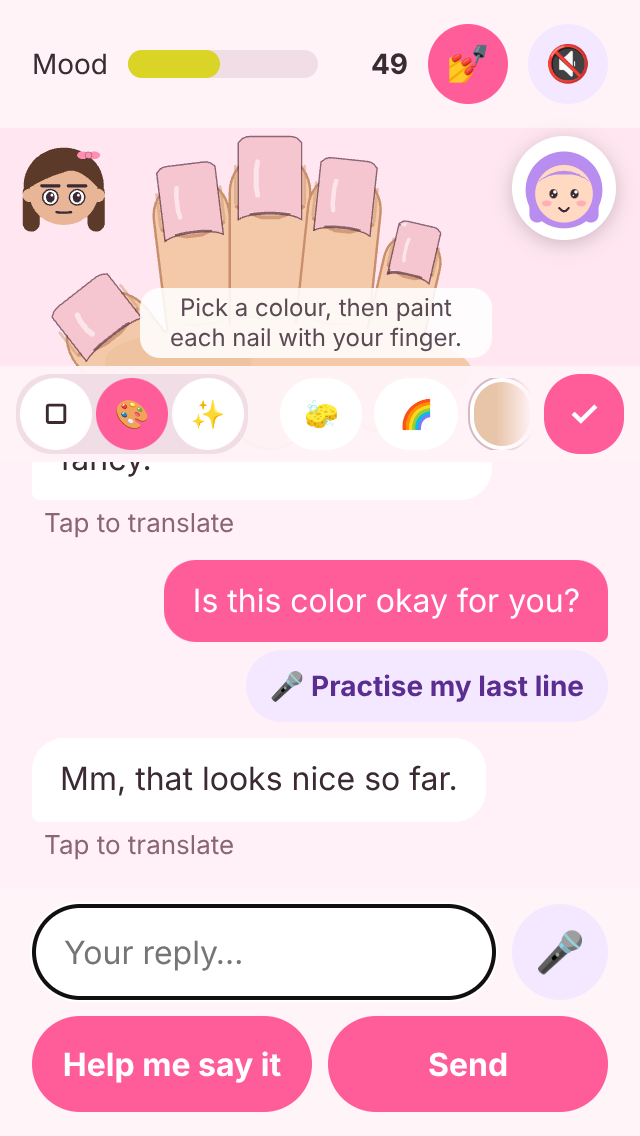
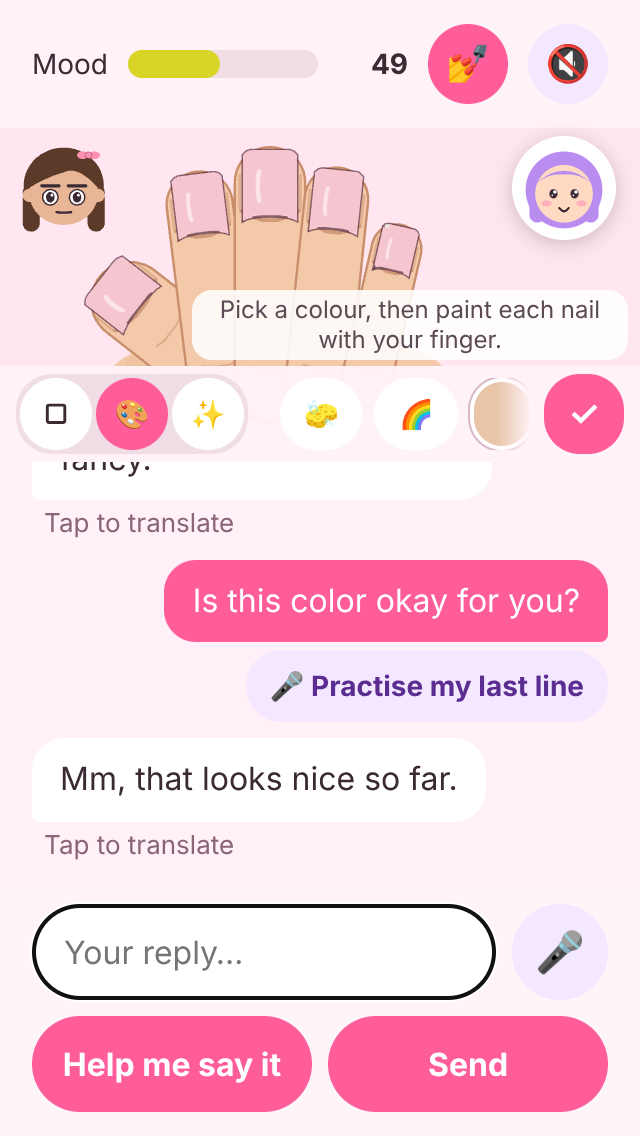
Hand layout fixes from review: whole thumb on a thumb tip, tip margin, hint under the fingers
Overseer review of 6192d72 (PASS on function; visual fixes):
1. Thumb more upright (-52 deg) and shorter, so its base joint fits; palm
   drawn under the fingers so each nail sits on a rounded fingertip.
2. Hint moved bottom-right under the ring/pinky fingers (never over a nail).
3. 7 px top margin; hand scales to fit (about 13% smaller).
The evidence script now checks: hint over no nail, tips >= 4 px from the top
(11 px measured), thumb base inside the zone. All pass in en and vi; chat
area still 213 px with the last two messages visible.

Tests: 236 pass (16 files); build passes. Evidence re-shot: story-005 station
(en+vi 320).

Next: story 007.

Claude-Session: https://claude.ai/code/session_01Fx5cxFjSfz8L37QZFocT7H

Changed region(s): [[0.0625, 0.0924, 0.9375, 0.3389]]

diff --git a/src/game/nail-art/station.ts b/src/game/nail-art/station.ts
@@ -48,6 +48,8 @@ const mix = (a: number, b: number, t: number): number => {
   return (ch(16) << 16) | (ch(8) << 8) | ch(0);
 };
 const rad = (deg: number): number => (deg * Math.PI) / 180;
+/** Pixels kept clear above the hand box. */
+const TOP_MARGIN = 7;
 
 export function createStationView(initial: NailDesign = emptyDesign()): StationView {
   const container = new Container();
@@ -55,7 +57,8 @@ export function createStationView(initial: NailDesign = emptyDesign()): StationV
   const fingersLayer = new Container();
   const palm = new Graphics();
   const nailsLayer = new Container();
-  container.addChild(fingersLayer, palm, nailsLayer);
+  // The palm goes under the fingers, so the thumb lies over it and every nail sits on a visible fingertip.
+  container.addChild(palm, fingersLayer, nailsLayer);
   const hand = NAIL_ART_CONFIG.hand;
   let design = initial;
   let views: NailView[] = [];
@@ -186,7 +189,8 @@ export function createStationView(initial: NailDesign = emptyDesign()): StationV
     const { w, h } = finger.nail;
     const fw = w * finger.width;
     const left = (w - fw) / 2;
-    const top = h * 0.18;
+    // The rounded fingertip shows just past the free edge (long shapes reach beyond it).
+    const top = -h * 0.04;
     const length = h - top + finger.length;
     const g = new Graphics()
       .roundRect(left, top, fw, length, fw * 0.5)
@@ -210,11 +214,12 @@ export function createStationView(initial: NailDesign = emptyDesign()): StationV
       for (const old of views) old.root.destroy({ children: true });
       fingersLayer.removeChildren().forEach((child) => child.destroy());
       views = [];
-      // Fit the hand box into the free width, keeping its proportions (the hand never pushes the layout).
+      // Fit the hand box into the free width and the height less a small top margin (so pointed tips show), keeping
+      // its proportions: the hand never pushes the layout.
       const free = Math.max(80, w - reserveLeft - reserveRight);
-      scale = Math.min(free / hand.box.w, h / hand.box.h);
+      scale = Math.min(free / hand.box.w, (h - TOP_MARGIN) / hand.box.h);
       offsetX = reserveLeft + (free - hand.box.w * scale) / 2;
-      offsetY = Math.max(0, (h - hand.box.h * scale) * 0.3);
+      offsetY = TOP_MARGIN;
       for (const layer of [fingersLayer, palm, nailsLayer]) {
         layer.position.set(offsetX, offsetY);
         layer.scale.set(scale);

diff --git a/src/game/ui/nail-station.css b/src/game/ui/nail-station.css
@@ -2,7 +2,8 @@
 .chat-panel.station-open .portrait-zone { flex-basis: clamp(112px, 21vh, 184px); }
 .station-touch { position: absolute; left: 0; right: 0; z-index: 1; touch-action: none; user-select: none; -webkit-user-select: none; -webkit-touch-callout: none; }
 /* The hint/status: small, inside the hand area, never blocking touch. */
-.station-status { position: absolute; left: 70px; right: 74px; bottom: 4px; margin: 0; padding: 3px 8px; border-radius: 10px; background: rgba(255, 255, 255, 0.88); font-size: 12px; line-height: 1.2; color: #5b4a53; text-align: center; pointer-events: none; opacity: 0; transition: opacity 0.3s; }
+/* Bottom-right, under the ring and pinky fingers (no nails there; the thumb is bottom-left, Mai top-right). */
+.station-status { position: absolute; left: 96px; right: 6px; bottom: 3px; margin: 0; padding: 3px 8px; border-radius: 10px; background: rgba(255, 255, 255, 0.88); font-size: 12px; line-height: 1.2; color: #5b4a53; text-align: center; pointer-events: none; opacity: 0; transition: opacity 0.3s; }
 .station-status.show { opacity: 1; }
 @media (prefers-reduced-motion: reduce) { .station-status { transition: none; } }
 /* One row: tabs | options (scroll, faded edges) | Done. */

diff --git a/production/qa/evidence/story-005-nail-art-station/README.md b/production/qa/evidence/story-005-nail-art-station/README.md
@@ -45,3 +45,5 @@ Checked in the same run (script log, en and vi, "problems: none"):
 - **Fixed on the way:** a mouse or trackpad stroke was cancelled part-way by the browser (it was starting a text selection), and fast strokes skipped points because the browser merges moves into one per frame. Now pointer-down prevents selection, the panel reads every merged point, and the station fills the gaps between points in half-brush steps.
 
 Frame rate: same as above (software WebGL here, ~15 fps even idle); the 60 fps feel check is still the owner's phone.
+
+**Re-shot after the overseer's review of 6192d72:** the thumb is more upright (−52°) and shorter, so its whole length, including the base joint, sits inside the hand area. The palm is drawn under the fingers, so every nail sits on a visible rounded fingertip. There is a 7 px top margin (nail tips 11 px below the edge), and the hand scales to fit (~13% smaller). The hint sits bottom-right, under the ring and pinky fingers. The script checks each run: hint over no nail, tips ≥ 4 px from the top, thumb base inside the zone; all passed in en and vi. Chat area still 213 px.
